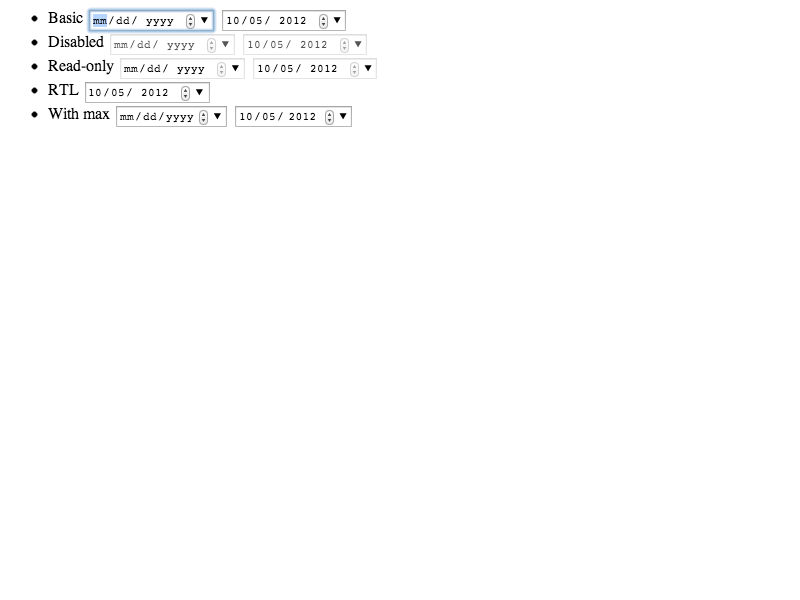
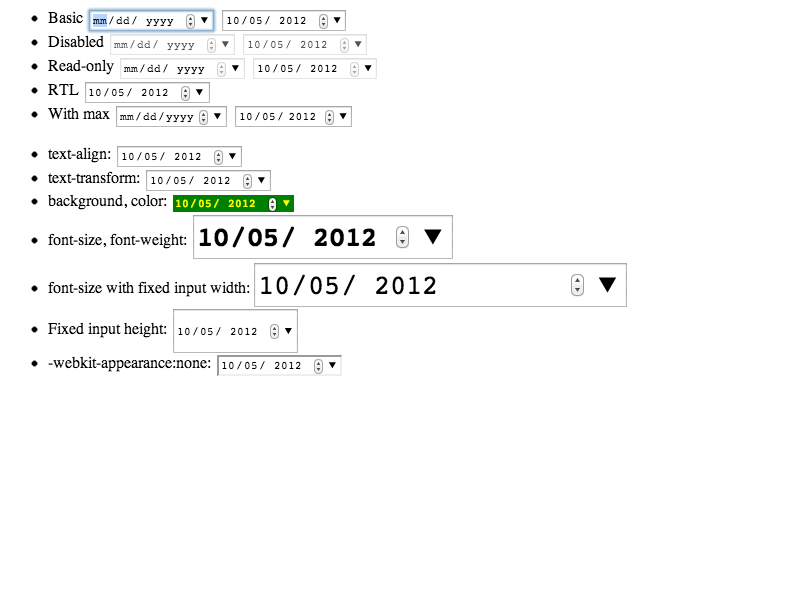
Reduce the number of pixel tests for date/time input types https://bugs.webkit.org/show_bug.cgi?id=103373
Reviewed by Kentaro Hara.

Merge fast/forms/<type>/<type>-appearance-style.html and
<type>-appearance-disabled-readonly.html into
<type>-appearance-basic.html, and add tests for font-weight, height, and
-webkit-appearance:none.

* fast/forms/date/date-appearance-basic-expected.txt:
* fast/forms/date/date-appearance-basic.html:
* fast/forms/date/date-appearance-style-expected.txt: Removed.
* fast/forms/date/date-appearance-style.html: Removed.
* fast/forms/month/month-appearance-basic-expected.txt:
* fast/forms/month/month-appearance-basic.html:
* fast/forms/month/month-appearance-style-expected.txt: Removed.
* fast/forms/month/month-appearance-style.html: Removed.
* fast/forms/time/time-appearance-basic-expected.txt:
* fast/forms/time/time-appearance-basic.html:
* fast/forms/time/time-appearance-disabled-readonly-expected.txt: Removed.
* fast/forms/time/time-appearance-disabled-readonly.html: Removed.
* fast/forms/time/time-appearance-style-expected.txt: Removed.
* fast/forms/time/time-appearance-style.html: Removed.
* fast/forms/week/week-appearance-basic-expected.txt:
* fast/forms/week/week-appearance-basic.html:
* fast/forms/week/week-appearance-style-expected.txt: Removed.
* fast/forms/week/week-appearance-style.html: Removed.
* platform/chromium-linux/fast/forms/date/date-appearance-style-expected.png: Removed.
* platform/chromium-linux/fast/forms/month/month-appearance-style-expected.png: Removed.
[…]

Changed region(s): [[0.0312, 0.24, 0.7812, 0.63]]

diff --git a/LayoutTests/fast/forms/time/time-appearance-basic.html b/LayoutTests/fast/forms/time/time-appearance-basic.html
@@ -1,19 +1,29 @@
 <html>
 <body>
+<script>
+if (window.testRunner)
+    testRunner.dumpAsText(true);
+</script>
 <ul>
-    <li>step=none <input id="focus" type="time"> <input type="time" value="12:34"></li>
+    <li>step=none <input autofocus type="time"> <input type="time" value="12:34"></li>
     <li>step=1 <input type="time" step="1"> <input step="1" type="time" value="12:34:56"></li>
     <li>step=0.0001 <input type="time" step="0.001"> <input step="0.001" type="time" value="12:34:56.789"></li>
     <li>step=60 <input type="time" step="60"> <input step="60" type="time" value="12:34"></li>
     <li>step=3600 <input type="time" step="3600"> <input step="3600" type="time" value="12:00"></li>
     <li>step mismatched   <input type="time" step="60" value="12:34:56"></li>
     <li>RTL <input type="time" step="1" value="12:34:56" dir="rtl"></li>
+    <li>Disabled, step=3600 <input disabled type="time" step="3600"> <input disabled step="3600" type="time" value="12:34"></li>
+    <li>Readonly, step=3600 <input readonly type="time" step="3600"> <input readonly step="3600" type="time" value="12:34"></li>
+</ul>
+
+<ul>
+    <li>text-align: <input type="time" value="12:34" style="text-align: left;"></li>
+    <li>text-transform: <input type="time" value="12:34" style="text-transform: lowercase;"></li>
+    <li>background, color: <input type="time" value="12:34" style="border: 0px; background: green; color: yellow;"></li>
+    <li>font-size, font-weight: <input type="time" value="12:34" style="font-size: 20pt; font-weight: bold;"></li>
+    <li>font-size with fixed input width: <input type="time" value="12:34" style="font-size: 20pt; width: 10em;"></li>
+    <li>Fixed input height: <input type="time" value="12:34" style="height: 4em;"></li>
+    <li>-webkit-appearance:none: <input type="time" value="13:56" style="-webkit-appearance: none;"></li>
 </ul>
 </body>
-<script>
-document.getElementById("focus").focus();
-if (window.testRunner) {
-    testRunner.dumpAsText(true);
-}
-</script>
 </html>

diff --git a/LayoutTests/fast/forms/week/week-appearance-basic.html b/LayoutTests/fast/forms/week/week-appearance-basic.html
@@ -1,5 +1,9 @@
 <html>
 <body>
+<script>
+if (window.testRunner)
+    testRunner.dumpAsText(true);
+</script>
 <ul>
     <li>basic <input type="week"> <input type="week" value="1982-W25"></li>
     <li>focus <input autofocus type="week"> <input type="week" value="1982-W25"></li>
@@ -8,9 +12,15 @@
     <li>RTL <input type="week" dir="rtl"> <input type="week" value="1982-W25" dir="rtl"></li>
     <li>With max <input type="week" max="9999-W52"> <input type="week" value="1982-W25" max="9999-W52"></li>
 </ul>
+
+<ul>
+    <li>text-align: <input type="week" value="1982-W25" style="text-align: left;"></li>
+    <li>text-transform: <input type="week" value="1982-W25" style="text-transform: lowercase;"></li>
+    <li>background, color: <input type="week" value="1982-W25" style="border: 0px; background: green; color: yellow;"></li>
+    <li>font-size, font-weight: <input type="week" value="1982-W25" style="font-size: 20pt; font-weight: bold;"></li>
+    <li>font-size with fixed input width: <input type="week" value="1982-W25" style="font-size: 20pt; width: 14em;"></li>
+    <li>Fixed input height: <input type="week" value="1982-W25" style="height: 4em;"></li>
+    <li>-webkit-appearance:none: <input type="week" value="1982-W25" style="-webkit-appearance: none;"></li>
+</ul>
 </body>
-<script>
-if (window.testRunner)
-    testRunner.dumpAsText(true);
-</script>
 </html>

diff --git a/LayoutTests/fast/forms/month/month-appearance-basic.html b/LayoutTests/fast/forms/month/month-appearance-basic.html
@@ -1,5 +1,9 @@
 <html>
 <body>
+<script>
+if (window.testRunner)
+    testRunner.dumpAsText(true);
+</script>
 <ul>
     <li>basic <input type="month"> <input type="month" value="1982-11"></li>
     <li>focus <input autofocus type="month"> <input type="month" value="1982-11"></li>
@@ -7,9 +11,15 @@
     <li>readonly <input type="month" readonly> <input type="month" value="1982-11" readonly></li>
     <li>RTL <input type="month" dir="rtl"> <input type="month" value="1982-11" dir="rtl"></li>
 </ul>
+
+<ul>
+    <li>text-align: <input type="month" value="1982-11" style="text-align: left;"></li>
+    <li>text-transform: <input type="month" value="1982-11" style="text-transform: lowercase;"></li>
+    <li>background, color: <input type="month" value="1982-11" style="border: 0px; background: green; color: yellow;"></li>
+    <li>font-size, font-weight: <input type="month" value="1982-11" style="font-size: 20pt; font-weight: bold;"></li>
+    <li>font-size with fixed input width: <input type="month" value="1982-11" style="font-size: 20pt; width: 13em;"></li>
+    <li>Fixed input height: <input type="month" value="1982-11" style="height: 4em;"></li>
+    <li>-webkit-appearance:none: <input type="month" value="1982-11" style="-webkit-appearance: none;"></li>
+</ul>
 </body>
-<script>
-if (window.testRunner)
-    testRunner.dumpAsText(true);
-</script>
 </html>

diff --git a/LayoutTests/fast/forms/date/date-appearance-basic.html b/LayoutTests/fast/forms/date/date-appearance-basic.html
@@ -11,5 +11,15 @@ if (testRunner)
     <li>RTL <input type="date" value="2012-10-05" dir="rtl"></li>
     <li>With max <input type="date" max="0099-12-31"> <input type="date" value="2012-10-05" max="99999-12-31"></li>
 </ul>
+
+<ul>
+    <li>text-align: <input type="date" value="2012-10-05" style="text-align: left;"></li>
+    <li>text-transform: <input type="date" value="2012-10-05" style="text-transform: lowercase;"></li>
+    <li>background, color: <input type="date" value="2012-10-05" style="border: 0px; background: green; color: yellow;"></li>
+    <li>font-size, font-weight: <input type="date" value="2012-10-05" style="font-size: 20pt; font-weight: bold;"></li>
+    <li>font-size with fixed input width: <input type="date" value="2012-10-05" style="font-size: 20pt; width: 14em;"></li>
+    <li>Fixed input height: <input type="date" value="2012-10-05" style="height: 4em;"></li>
+    <li>-webkit-appearance:none: <input type="date" value="2012-10-05" style="-webkit-appearance: none;"></li>
+</ul>
 </body>
 </html>
